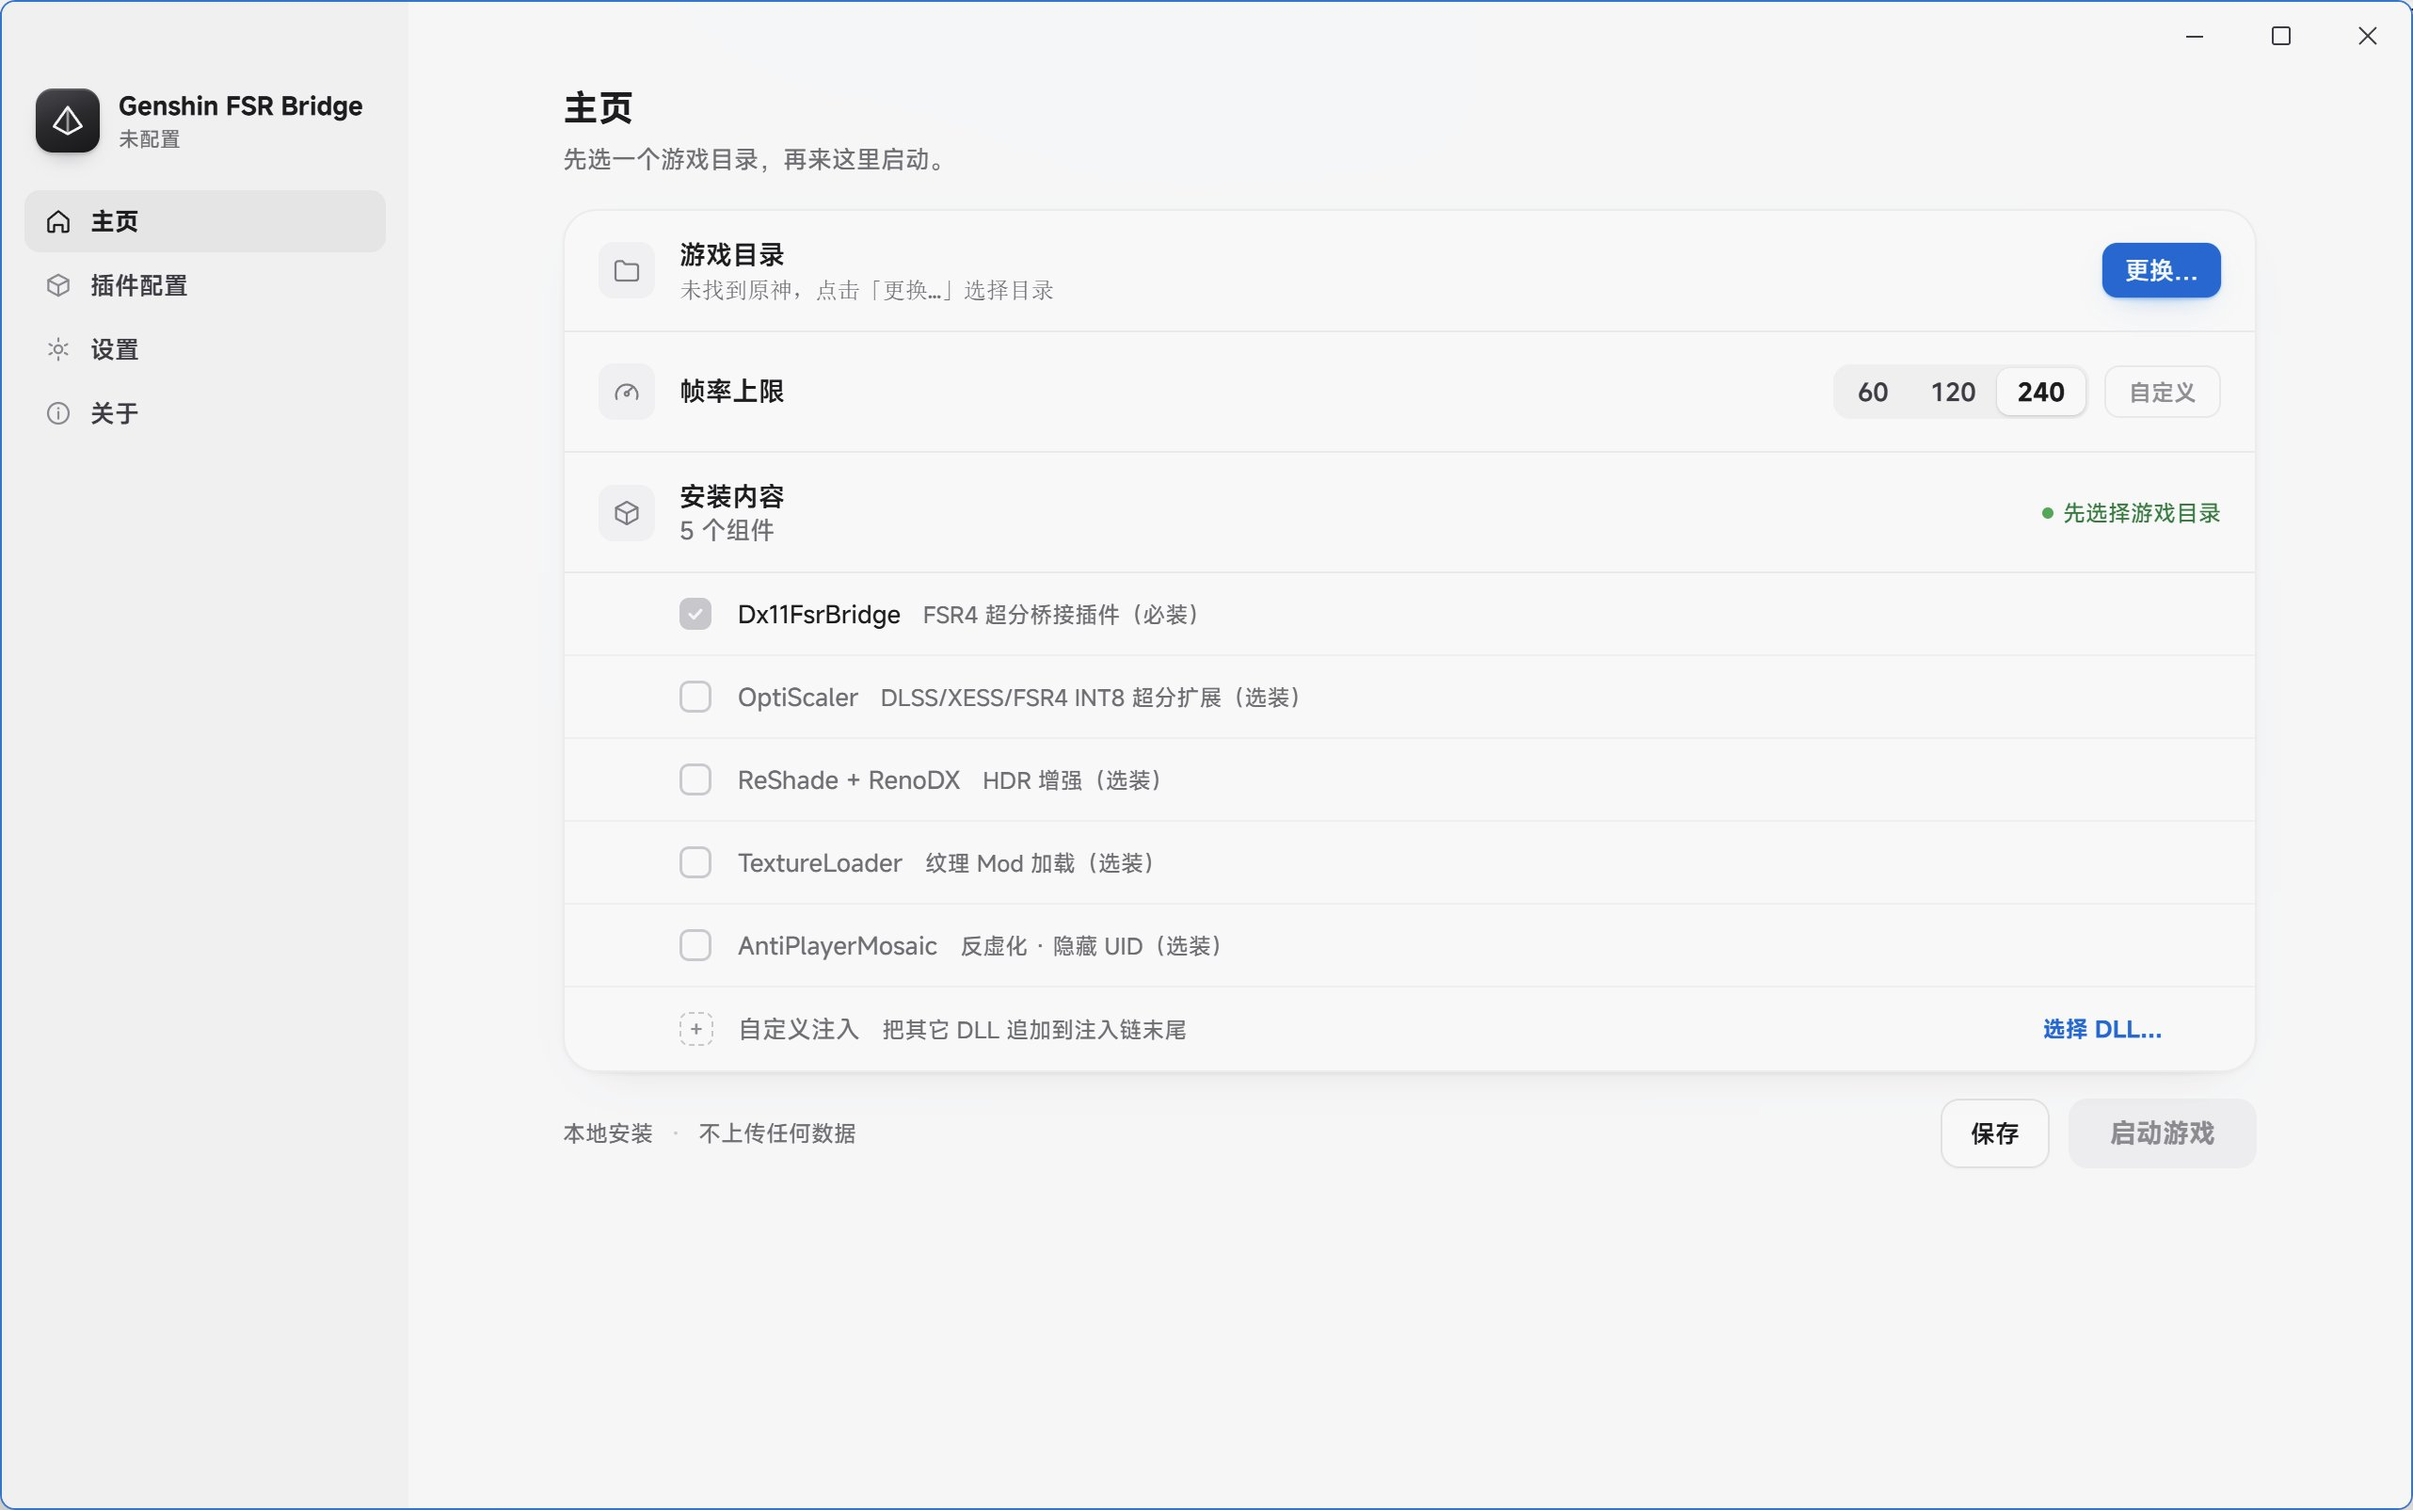
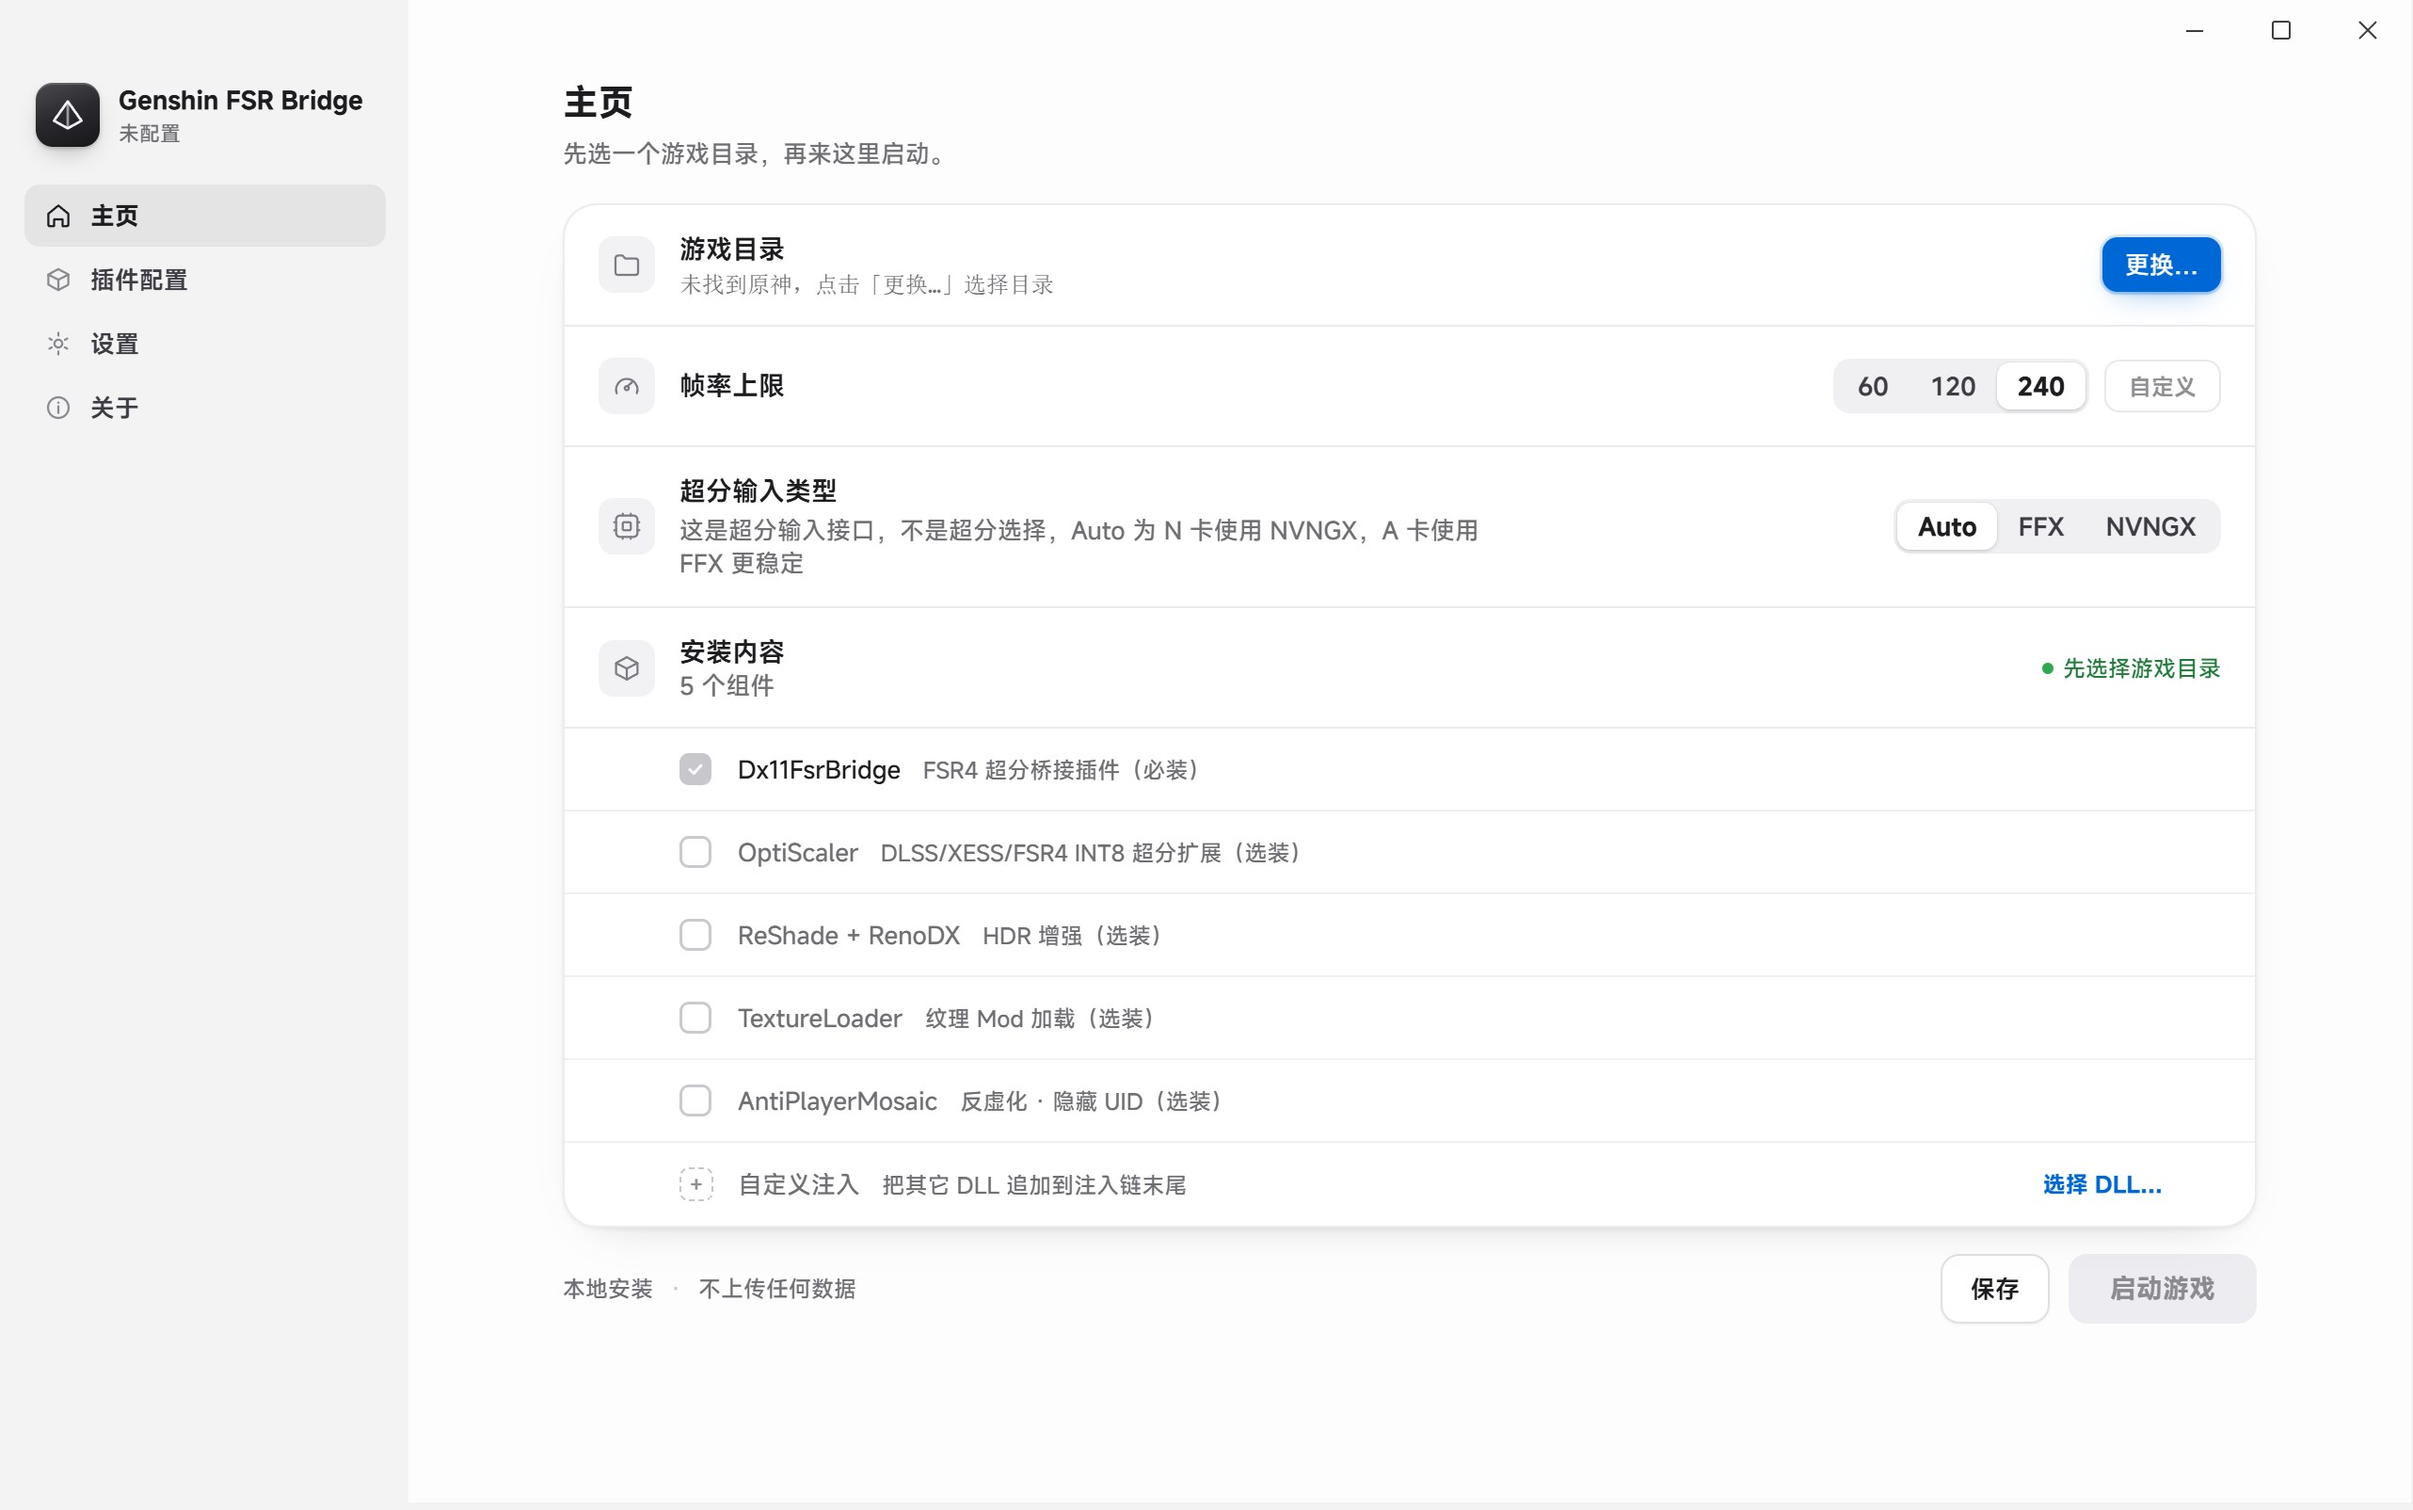
docs(readme): 补齐内置 NGX 后端与 DLSS 的图文说明
- hero.svg / hero-en.svg 重画为「同一处 FSR2 调用 → 桥 → FFX12 与 NGX 两条后端」，标题、页脚补 DLSS 与 NGX SDK
- 功能流程图与功能表补 NGX 分支，GPU 支持表的 Intel 单元格去掉「（XeSS）」
- 徽章补 DLSS（NGX 后端）；安装器主页截图换成含「超分输入类型」的界面，caption 同步

diff --git a/README_EN.md b/README_EN.md
@@ -5,6 +5,7 @@
   <a href="Dx11FsrBridge/LICENSE"><img alt="License: GPL-3.0-or-later" src="https://img.shields.io/badge/license-GPL--3.0--or--later-blue"></a>
   <img alt="Platform: Windows DX11" src="https://img.shields.io/badge/platform-Windows%20DX11-6f42c1?logo=windows&amp;logoColor=white">
   <img alt="FSR4 / FSR3 / FSR2" src="https://img.shields.io/badge/FSR-4%20%7C%203%20%7C%202-f97316">
+  <img alt="DLSS (NGX backend)" src="https://img.shields.io/badge/DLSS-NGX%20backend-76B900?logo=nvidia&amp;logoColor=white">
   <img alt="AMD FFX12 SDK" src="https://img.shields.io/badge/AMD-FFX12%20SDK-ED1C24?logo=amd&amp;logoColor=white">
   <img alt="Genshin 7.1+" src="https://img.shields.io/badge/Genshin-7.1%2B-0ea5e9">
 </p>
@@ -14,7 +15,7 @@
 </p>
 
 <div align="center">
-  <img src="assets/readme/hero-en.svg" alt="Genshin native FSR2 calls bridged by Dx11FsrBridge to the AMD FFX12 SDK, producing FSR4 / FSR3 / FSR2" width="100%">
+  <img src="assets/readme/hero-en.svg" alt="Genshin native FSR2 calls hooked by Dx11FsrBridge and split into two backends: AMD FFX12 SDK (FSR4/FSR3/FSR2) and NVIDIA NGX (DLSS)" width="100%">
 </div>
 
 A graphics plugin for the Genshin Impact Windows DX11 client. It independently hooks the game's native FSR2 calls and forwards them to the AMD FFX12 official SDK for upscaling: FSR4/FSR3/FSR2 are provided directly on supported GPUs without any external plugin such as OptiScaler. On NVIDIA GPUs it can also switch to the built-in NGX backend and output DLSS directly (also without OptiScaler); OptiScaler can additionally be connected to extend the upscaler types (XeSS, FSR4 INT8, etc.).
@@ -71,7 +72,7 @@ For the Chinese documentation, see [README.md](README.md).
     <td width="50%" align="center" valign="top">
       <a href="assets/readme/installer-home.jpg"><img src="assets/readme/installer-home.jpg" alt="Installer · Home" width="100%"></a>
       <br>
-      <sub><b>Installer · Home</b> · game directory, frame-rate cap, and installed content in one screen</sub>
+      <sub><b>Installer · Home</b> · game directory, frame-rate cap, super-resolution input (Auto / FFX / NVNGX), and installed content in one screen</sub>
     </td>
     <td width="50%" align="center" valign="top">
       <a href="assets/readme/installer-plugins.jpg"><img src="assets/readme/installer-plugins.jpg" alt="Installer · Plugins" width="100%"></a>
@@ -108,13 +109,15 @@ powershell -ExecutionPolicy Bypass -File .\Build-OnlineInstaller.ps1 -Configurat
 
 ## Features
 
-The core path of the bridge is to intercept the game's native FSR2 calls and forward them to the FFX12 SDK:
+The bridge intercepts the game's native FSR2 calls once and then attaches two backends behind them — the AMD FFX12 SDK and NVIDIA NGX (DLSS):
 
 ```mermaid
 flowchart LR
     G["Genshin DX11 client<br/>native FSR2 calls"] --> B["Dx11FsrBridge.dll<br/>DX11 hook · FFX12 resource bridge"]
-    B --> S["AMD FFX12 SDK<br/>FSR4 / FSR3 / FSR2"]
+    B -->|"Ffx12Backend=native, or auto on a non-RTX GPU"| S["AMD FFX12 SDK<br/>FSR4 / FSR3 / FSR2"]
+    B -->|"Ffx12Backend=ngx, or auto on an RTX GPU"| N["NVIDIA NGX<br/>DLSS"]
     S --> P["Game frame<br/>upscaled output"]
+    N --> P
 ```
 
 | Module | Capability | Notes |
@@ -122,6 +125,7 @@ flowchart LR
 | 🎯 | **Native FSR forwarding** | Intercepts DX11 device and context activity to obtain the timing of Genshin Impact's FSR2 calls. |
 | 🧩 | **FFX12 resource bridge** | Prepares color, depth, motion-vector, jitter, and history resources for the FFX12 SDK and forwards the upscaling dispatch. |
 | ⚡ | **Automatic tier matching** | Auto-matches the FSR series by GPU capability (FSR4/FSR3/FSR2); upscaling works on supported GPUs without external plugins. |
+| 🟩 | **NGX backend (DLSS)** | On RTX 20 series and newer the same FSR2 call can be routed to NVIDIA NGX and output DLSS, also without OptiScaler; see "[DLSS on NVIDIA without OptiScaler](#dlss-on-nvidia-without-optiscaler-ngx-backend)" for the GPU test, prerequisites, and how to obtain the runtime. |
 | 🎚 | **Extended render scale** | Extends the in-game render-scale menu to `0.2–0.999`. |
 | 📝 | **Runtime logs** | Writes runtime logs to `Dx11FsrBridge.log` beside the DLL by default for load and hook diagnostics. |
 | 🖼 | **TextureLoader** (texture/Mod loader) | 3DMigoto-compatible `[TextureOverride]` Mod loading (DDS replacement + GDDS DirectStorage GPU decompression), loading from the package `Mods` directory by default. **Currently it supports pure texture mods only — model mods are not supported** (see "[TextureLoader Scope](#textureloader-scope)" below). **On NVIDIA GPUs this component is not recommended** (replaced texture mods will very likely fail to load; it is not completely unusable, and it can still be enabled manually) — see "[GPU Support and NVIDIA Caveats](#gpu-support-and-nvidia-caveats)" below. |
@@ -130,7 +134,7 @@ flowchart LR
 
 | Component | AMD | NVIDIA | Intel |
 | --- | --- | --- | --- |
-| FSR Bridge (FSR4/FSR3/FSR2) | ✅ | ✅ | ✅ (XeSS) |
+| FSR Bridge (FSR4/FSR3/FSR2) | ✅ | ✅ | ✅ |
 | FSR Bridge built-in DLSS (NGX backend) | ❌ N/A | ✅ RTX 20 series and newer (GTX 16 / MX unsupported) | ❌ N/A |
 | OptiScaler (DLSS/XeSS/FSR4 INT8) | ✅ | ✅ | ✅ |
 | Anti-Mosaic / Hide UID, ReShade + RenoDX | ✅ | ✅ | ✅ |

diff --git a/README.md b/README.md
@@ -5,6 +5,7 @@
   <a href="Dx11FsrBridge/LICENSE"><img alt="License: GPL-3.0-or-later" src="https://img.shields.io/badge/license-GPL--3.0--or--later-blue"></a>
   <img alt="Platform: Windows DX11" src="https://img.shields.io/badge/platform-Windows%20DX11-6f42c1?logo=windows&amp;logoColor=white">
   <img alt="FSR4 / FSR3 / FSR2" src="https://img.shields.io/badge/FSR-4%20%7C%203%20%7C%202-f97316">
+  <img alt="DLSS（NGX 后端）" src="https://img.shields.io/badge/DLSS-NGX%20backend-76B900?logo=nvidia&amp;logoColor=white">
   <img alt="AMD FFX12 SDK" src="https://img.shields.io/badge/AMD-FFX12%20SDK-ED1C24?logo=amd&amp;logoColor=white">
   <img alt="Genshin 7.1+" src="https://img.shields.io/badge/Genshin-7.1%2B-0ea5e9">
 </p>
@@ -14,7 +15,7 @@
 </p>
 
 <div align="center">
-  <img src="assets/readme/hero.svg" alt="原神原生 FSR2 调用经 Dx11FsrBridge 转接到 AMD FFX12 SDK，输出 FSR4 / FSR3 / FSR2" width="100%">
+  <img src="assets/readme/hero.svg" alt="原神原生 FSR2 调用经 Dx11FsrBridge 分叉到 AMD FFX12 SDK（FSR4/FSR3/FSR2）与 NVIDIA NGX（DLSS）两条后端" width="100%">
 </div>
 
 面向原神 Windows DX11 客户端的图形插件。它独立 hook 游戏原生 FSR2 调用，并转接到 AMD FFX12 官方 SDK 实现超分：在支持的显卡上直接提供 FSR4/FSR3/FSR2，不依赖 OptiScaler 等外部插件；NVIDIA 显卡上还可以切到内置 NGX 后端直接输出 DLSS（同样不需要 OptiScaler），接入 OptiScaler 后可以进一步扩展 XeSS/FSR4 INT8 等超分类型。
@@ -67,7 +68,7 @@
     <td width="50%" align="center" valign="top">
       <a href="assets/readme/installer-home.jpg"><img src="assets/readme/installer-home.jpg" alt="安装器 · 主页" width="100%"></a>
       <br>
-      <sub><b>安装器 · 主页</b> · 游戏目录、帧率上限、安装内容，一屏改完</sub>
+      <sub><b>安装器 · 主页</b> · 游戏目录、帧率上限、超分输入类型（Auto / FFX / NVNGX）、安装内容，一屏改完</sub>
     </td>
     <td width="50%" align="center" valign="top">
       <a href="assets/readme/installer-plugins.jpg"><img src="assets/readme/installer-plugins.jpg" alt="安装器 · 插件配置" width="100%"></a>
@@ -106,13 +107,15 @@ powershell -ExecutionPolicy Bypass -File .\Build-OnlineInstaller.ps1 -Configurat
 
 ## 功能
 
-Bridge 的核心路径是拦截游戏原生 FSR2 调用并转接到 FFX12 SDK：
+Bridge 只拦截一次游戏原生 FSR2 调用，然后在它后面接上两条后端 —— AMD FFX12 SDK 与 NVIDIA NGX（DLSS）：
 
 ```mermaid
 flowchart LR
     G["原神 DX11 客户端<br/>原生 FSR2 调用"] --> B["Dx11FsrBridge.dll<br/>DX11 Hook · FFX12 资源转接"]
-    B --> S["AMD FFX12 SDK<br/>FSR4 / FSR3 / FSR2"]
+    B -->|"Ffx12Backend=native，或 auto 判为非 RTX"| S["AMD FFX12 SDK<br/>FSR4 / FSR3 / FSR2"]
+    B -->|"Ffx12Backend=ngx，或 auto 判为 RTX"| N["NVIDIA NGX<br/>DLSS"]
     S --> P["游戏画面<br/>超分输出"]
+    N --> P
 ```
 
 | 模块 | 能力 | 说明 |
@@ -120,6 +123,7 @@ flowchart LR
 | 🎯 | **原生 FSR 转接** | 通过 DX11 设备与上下文拦截获取原神的 FSR2 调用时机。 |
 | 🧩 | **FFX12 资源转接** | 为 FFX12 SDK 准备颜色、深度、运动向量、抖动和历史资源，并转接超分 dispatch。 |
 | ⚡ | **自动档位匹配** | 按显卡能力自动匹配 FSR 系列（FSR4/FSR3/FSR2），支持显卡上无需外部插件即可超分。 |
+| 🟩 | **NGX 后端（DLSS）** | RTX 20 系起可把同一个 FSR2 调用改走 NVIDIA NGX 输出 DLSS，同样不需要 OptiScaler；判据、前置条件与获取方式见下方「[N 卡不接 OptiScaler 也能开 DLSS](#n-卡不接-optiscaler-也能开-dlssngx-后端)」。 |
 | 🎚 | **渲染精度扩展** | 将游戏渲染精度菜单扩展为 `0.2–0.999`。 |
 | 📝 | **运行日志** | 运行时日志默认写入 DLL 同目录的 `Dx11FsrBridge.log`，用于排查加载与 Hook 状态。 |
 | 🖼 | **TextureLoader**（纹理/Mod 加载器） | 3DMigoto 兼容的 `[TextureOverride]` Mod 加载（DDS 替换 + GDDS DirectStorage GPU 解压），默认从插件包内 `Mods` 目录加载。**当前只支持纯纹理贴图类 Mod，不支持模型类 Mod**，见下方「[TextureLoader 支持范围](#textureloader-支持范围)」。**该组件在 N 卡上不推荐**（极大概率出现替换贴图 Mod 加载丢失，但不是完全不可用，仍可手动开启），见下方「[GPU 支持与 N 卡注意事项](#gpu-支持与-n-卡注意事项)」。 |
@@ -128,7 +132,7 @@ flowchart LR
 
 | 组件 | AMD | NVIDIA | Intel |
 | --- | --- | --- | --- |
-| FSR Bridge（FSR4/FSR3/FSR2） | ✅ | ✅ | ✅（XeSS） |
+| FSR Bridge（FSR4/FSR3/FSR2） | ✅ | ✅ | ✅ |
 | FSR Bridge 内置 DLSS（NGX 后端） | ❌ 不适用 | ✅ RTX 20 系及以上（GTX 16 / MX 不支持） | ❌ 不适用 |
 | OptiScaler（DLSS/XeSS/FSR4 INT8） | ✅ | ✅ | ✅ |
 | 反虚化 / 隐藏 UID、ReShade + RenoDX | ✅ | ✅ | ✅ |
